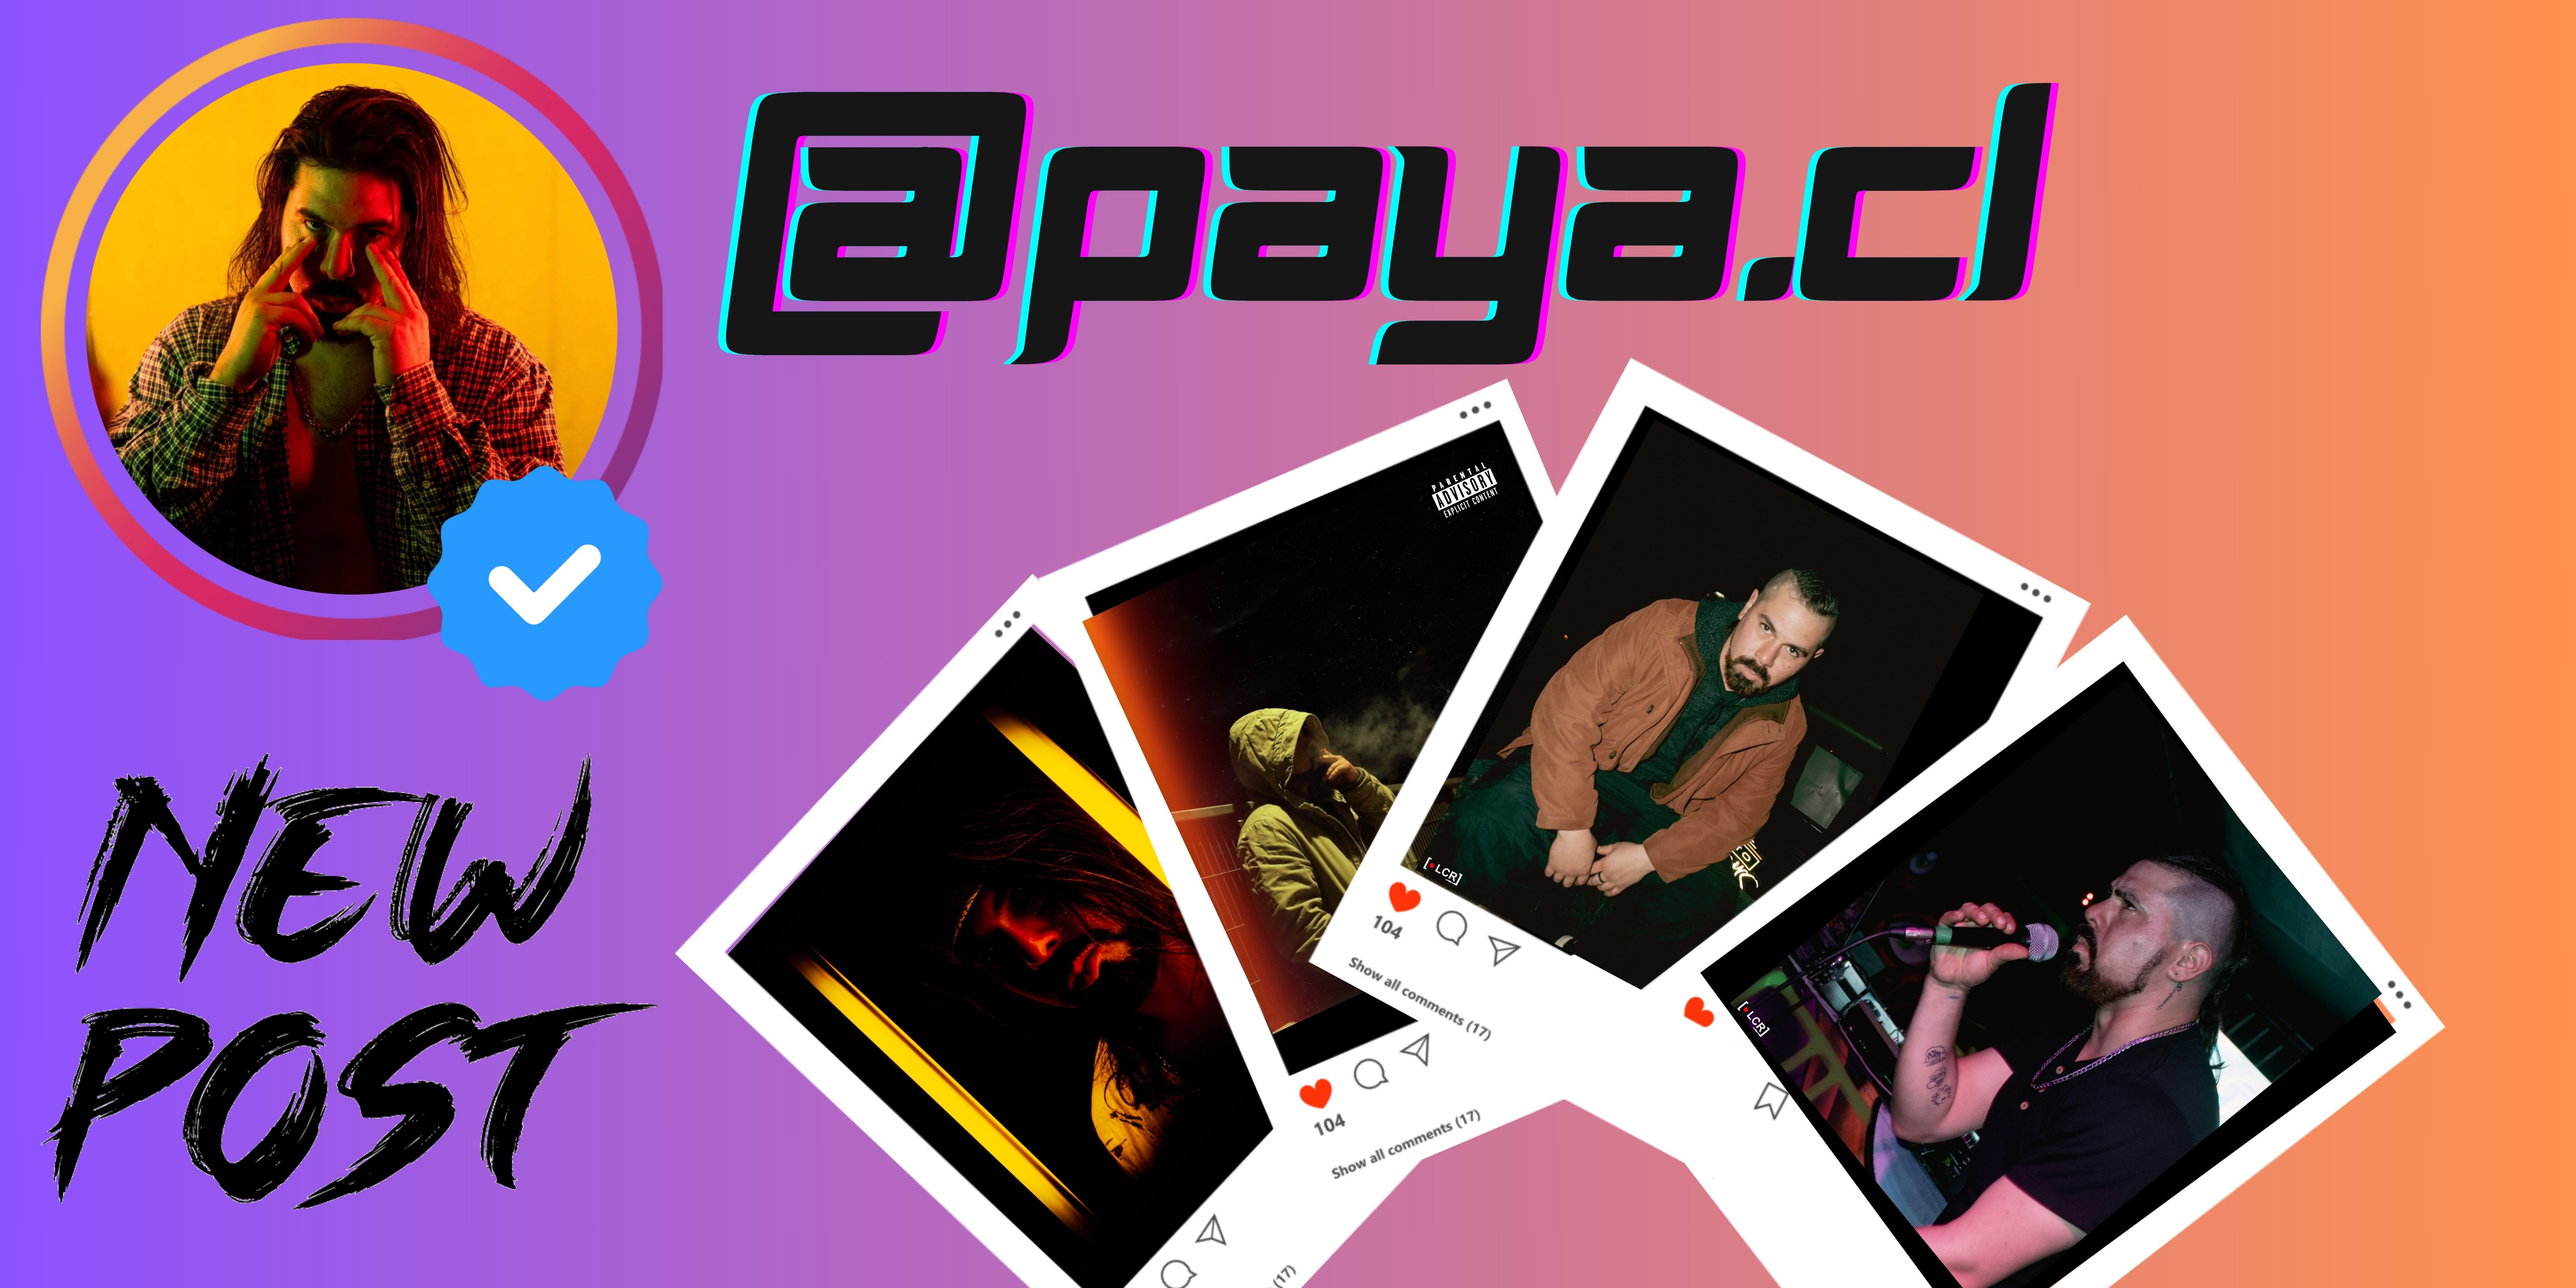
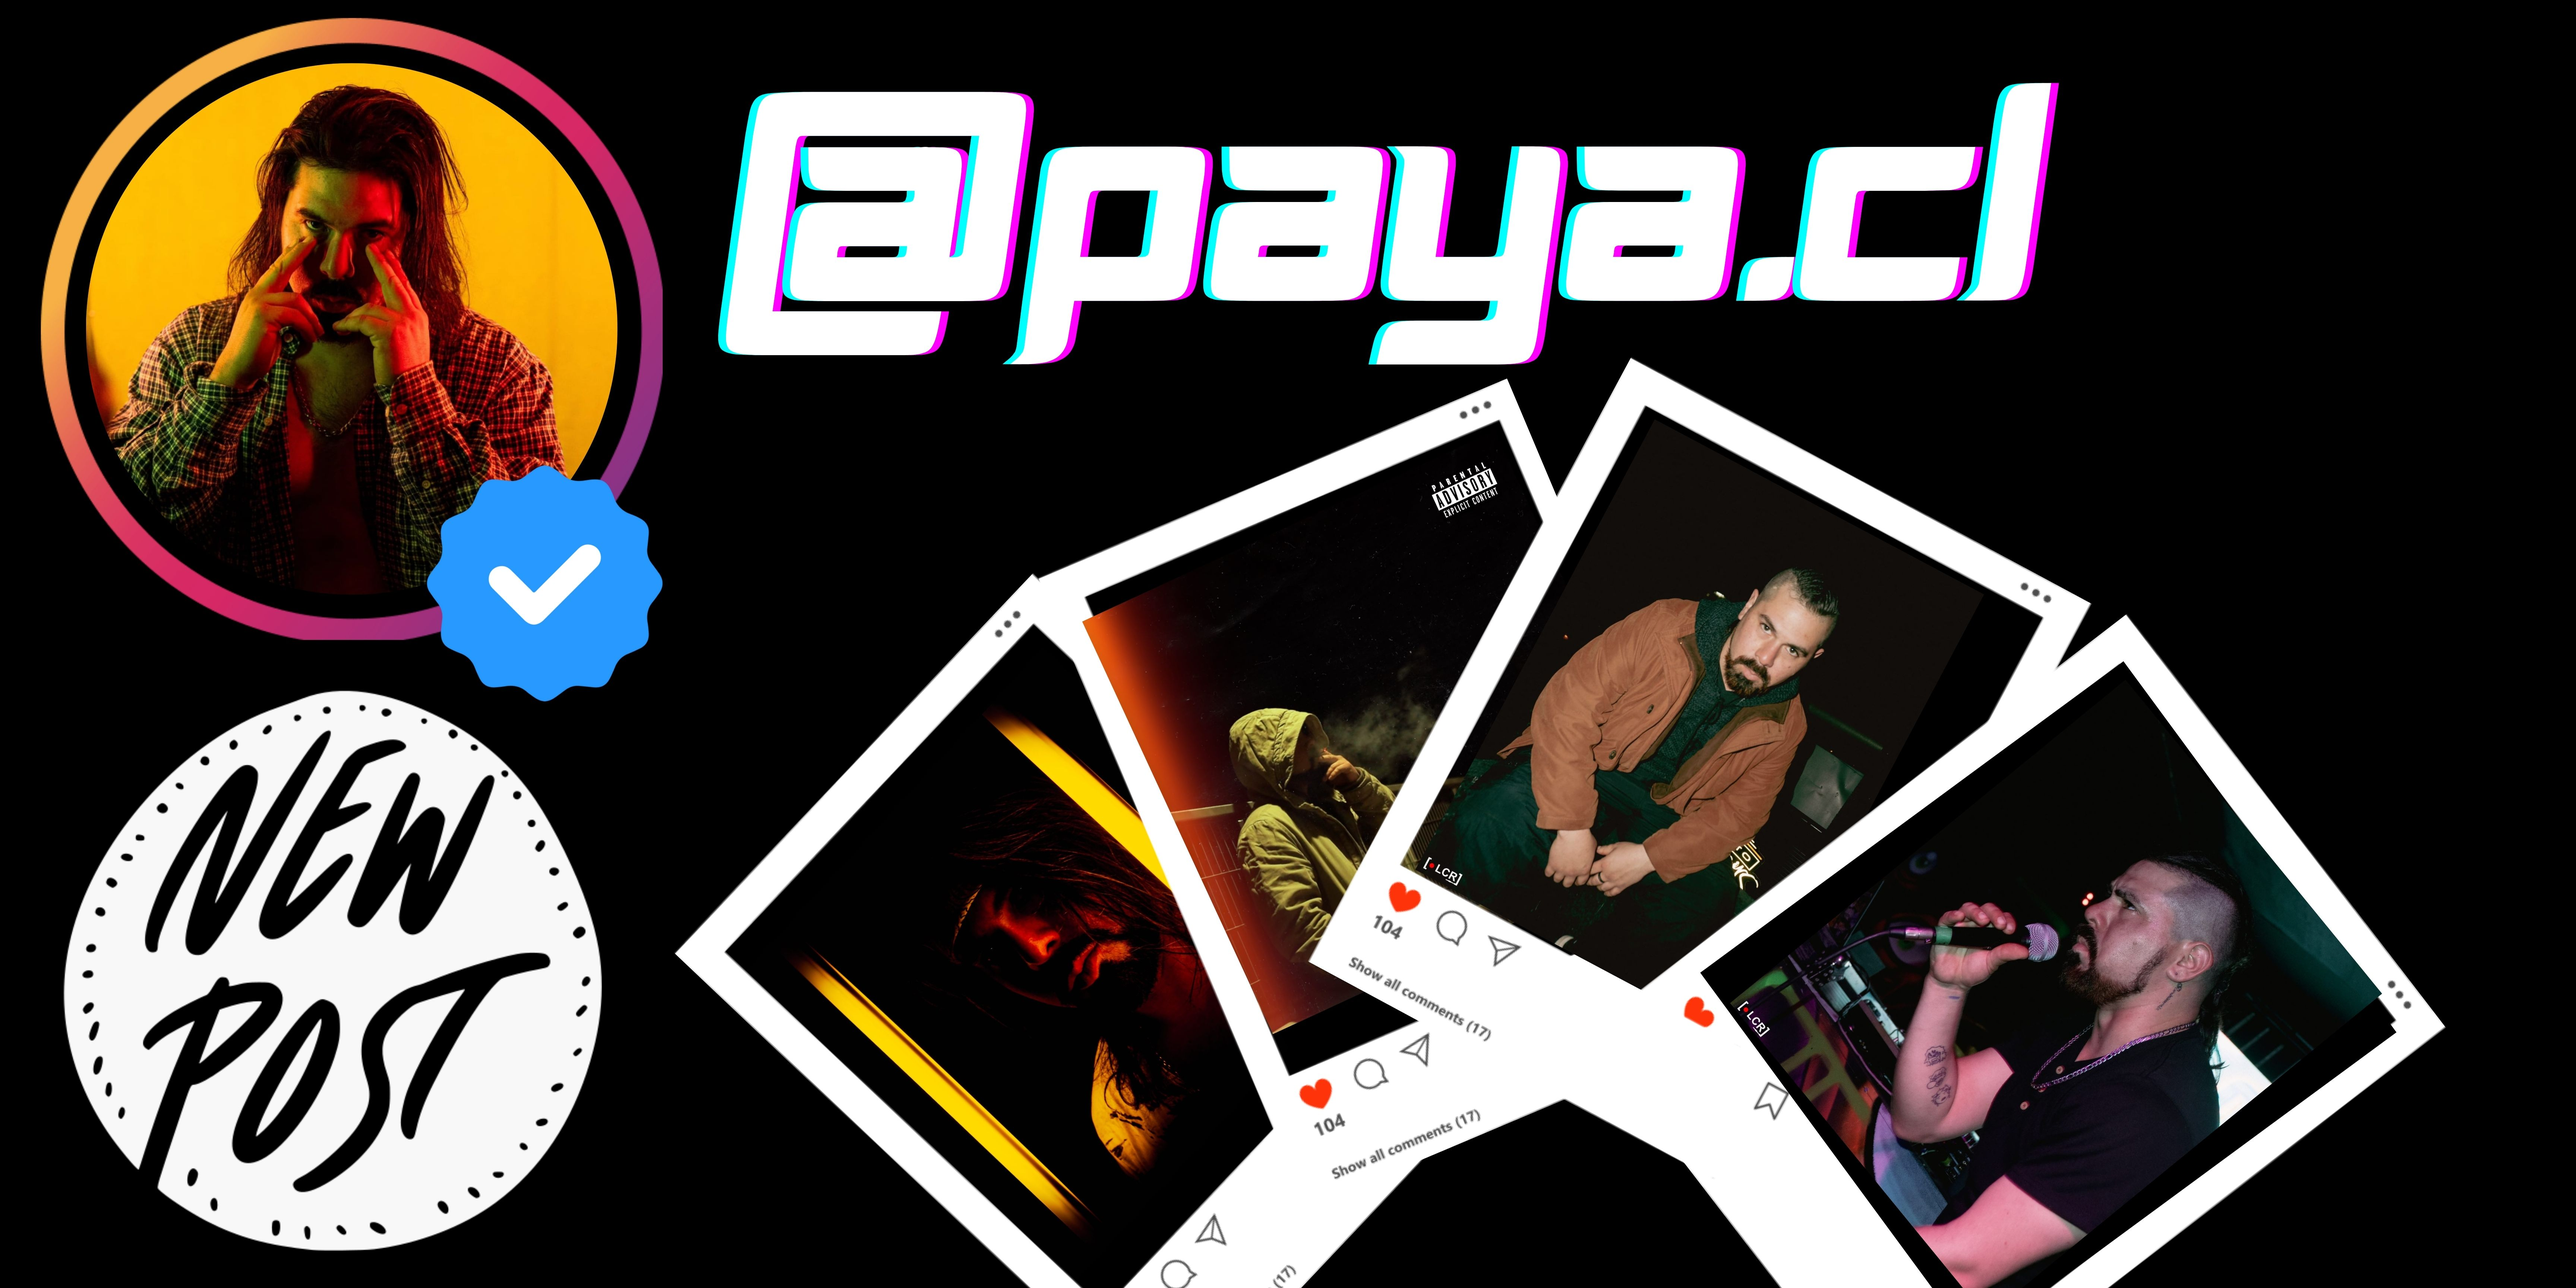
ultimo cambio 14/111

diff --git a/src/Page/Youtube.tsx b/src/Page/Youtube.tsx
@@ -3,14 +3,14 @@ import Footer from "../Components/Footer";
 import CarouselComponent from "../Components/Carrusel";
 import Carta from "../Components/Carta";
 
-import img1 from "../assets/img/BannerS.jpg";
+import img1 from "../assets/img/BannerY.jpg";
 import img2 from "../assets/img/BannerY.jpg";
 import img3 from "../assets/img/BannerI.jpg";
 type Props = {};
 
 function Youtube({}: Props) {
   return (
-    <div className="bg-gradient-to-b bg-teal-500 from-red-600" >
+    <div className="bg-gradient-to-b bg-black from-red-600" >
       <NavBar />
       <CarouselComponent img1={img1} img2={img2} img3={img3} />
       <br/>

diff --git a/src/Page/Home.tsx b/src/Page/Home.tsx
@@ -8,12 +8,13 @@ type Props = {};
 
 function Home({}: Props) {
   return (
-    <div className="bg-gradient-to-b bg-purple-700 from-orange-500">
+    <div className="bg-gradient-to-b bg-black from-purple-700">
       <NavBar />
       <br />
       <HeroImage />
       <Title titulo={"Haz click aqui"} />
       <CardSection />
+      <br/>
       <Footer />
     </div>
   );

diff --git a/src/Page/Spotify.tsx b/src/Page/Spotify.tsx
@@ -12,7 +12,7 @@ import img3 from "../assets/img/BannerI.jpg";
 type Props = {};
 function Spotify({}: Props) {
   return (
-    <div className="bg-gradient-to-r bg-purple-600 from-green-600">
+    <div className="bg-gradient-to-b bg-black from-green-500">
       <NavBar />
       <CarouselComponent img1={img1} img2={img2} img3={img3} />
       <Playlist />
